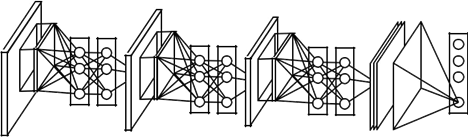
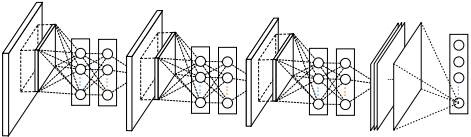
図を変更

Changed region(s): [[0.0, 0.0, 1.0, 1.0]]

diff --git a/AI技術/CNN/Architecture/GoogLeNet：Going Deeper with Convolutions/参考文献/NetworkInNetwork/翻訳/翻訳.md b/AI技術/CNN/Architecture/GoogLeNet：Going Deeper with Convolutions/参考文献/NetworkInNetwork/翻訳/翻訳.md
@@ -81,7 +81,9 @@ $$
 
 ---
 
-<img src=>
+<img src=https://raw.githubusercontent.com/rurusasu/paper/master/AI%E6%8A%80%E8%A1%93/CNN/Architecture/GoogLeNet%EF%BC%9AGoing%20Deeper%20with%20Convolutions/%E5%8F%82%E8%80%83%E6%96%87%E7%8C%AE/NetworkInNetwork/%E7%94%BB%E5%83%8F/fig2.png>
+
+Fig2. Network In Networkの全体的な構造です。本論文では、NINには3つのMLPCONVレイヤーと1つのグローバルアベレージプーリングレイヤーの積層が含まれている。
 
 ---
 
